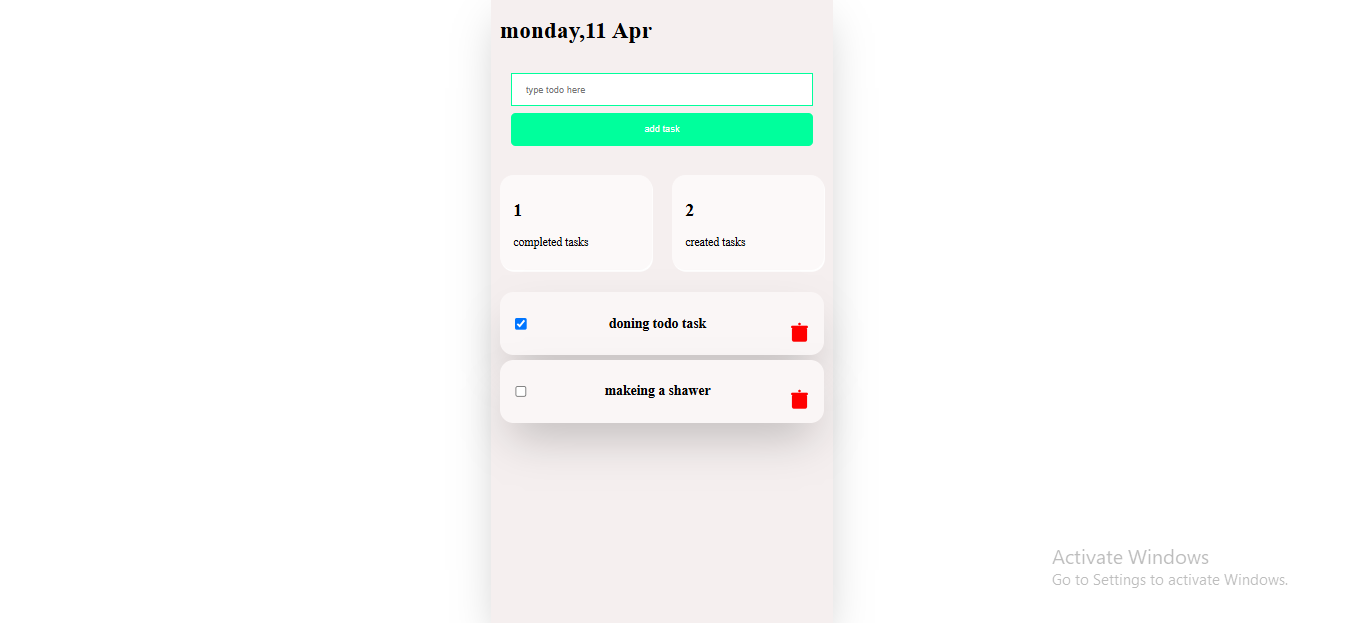
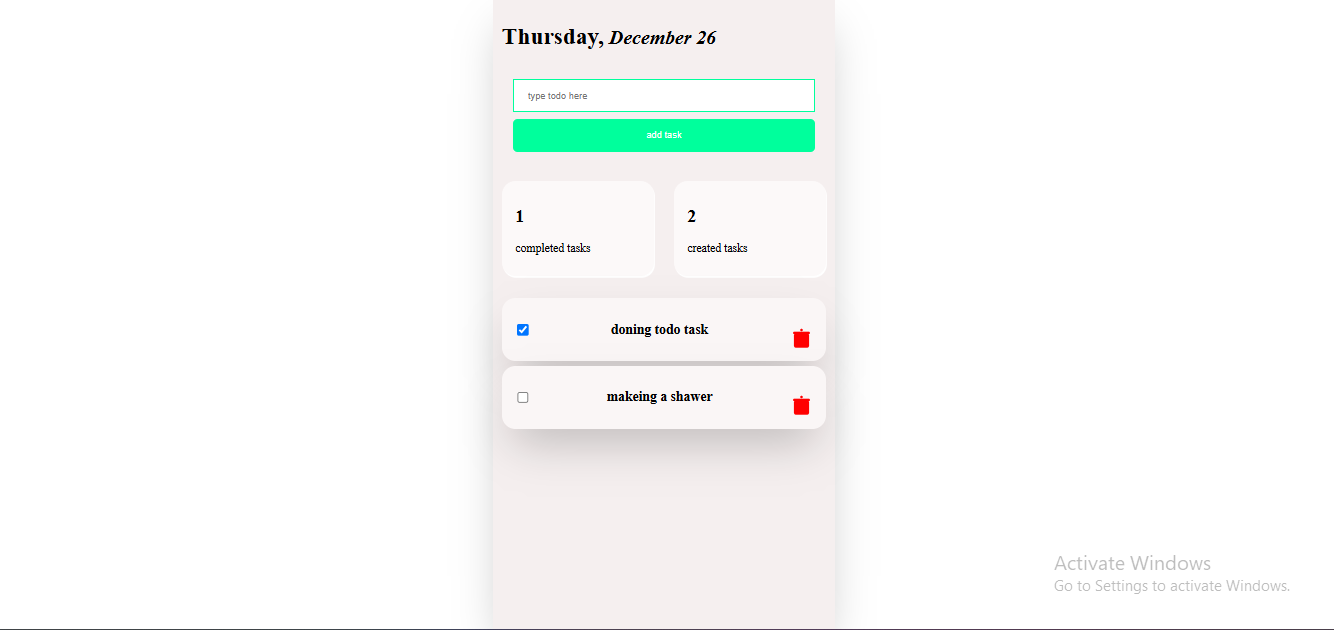
update on todo app

diff --git a/src/App.tsx b/src/App.tsx
@@ -49,7 +49,7 @@ const handleUpdateOnTask = (id:string) => {
 
   return (
     <main className='box-shadow'>
-          <h1 className='data-info'>{day},<i className='month'>{month}</i></h1>
+          <h1 className='data-info'>{day},<i className='month'>{month.slice(9,month.length)}{month.slice(0,4)}</i></h1>
 
       <TodoForm handleAddTask ={handleAddTask}/>
       <TodoData numberOfCreatedTasks={allTasks.length}  numberOfCompletedTasks={numbersOfCompletedTasks}/>
